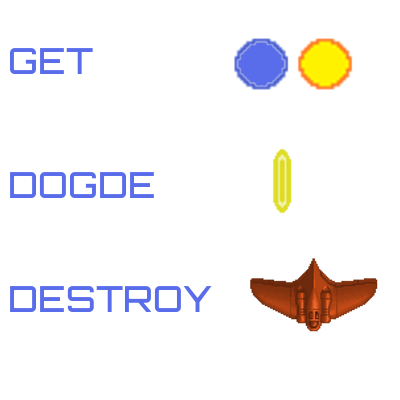
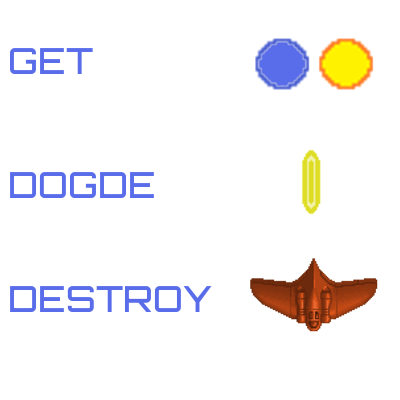
finalizada la primera version

Changed region(s): [[0.57, 0.09, 0.93, 0.24], [0.66, 0.36, 0.81, 0.54]]

diff --git a/js/game.js b/js/game.js
@@ -68,20 +68,22 @@ Game.prototype.start = function() {
 
 // Resetear juego
 Game.prototype.reset = function() {
-  this.gameOn = false;
-  var that = this;
-  clearInterval(this.interval);
-  this.clear();
-  this.background = new Background(this);
-  this.player = new Player(this);
-  this.enemies = [];
-  this.framesCounter = 0;
-  this.enemiesGenerated = 0;
+      var that = this;
+      clearInterval(this.interval);
+      this.clear();
+      this.background = new Background(this);
+      this.player = new Player(this);
+      this.enemies = [];
+      this.enemiesGenerated = 0;
+      this.framesCounter = 0;
+      this.items = [];
+      this.score = 0;  
 };
 
 // GAME OVER
 Game.prototype.gameOver = function() {
   this.clear();
+  this.gameOn = false;  
   var grd = this.ctx.createLinearGradient(0,0,this.canvas.width,this.canvas.height);
     grd.addColorStop(0,"#660066");
     grd.addColorStop(1,"#000000");
@@ -93,6 +95,7 @@ Game.prototype.gameOver = function() {
   this.ctx.fillText("YOU'RE DEAD", 30, 300);
   this.ctx.font = "bold 26px Orbitron";
   this.ctx.fillText("Please press RESTART", 30, 360);
+  this.ctx.fillText("YOUR SCORE: " + this.score, 30, 420);
   clearInterval(this.interval);
 };
 

diff --git a/css/styles.css b/css/styles.css
@@ -25,16 +25,12 @@ button {
   font-family: 'Orbitron', sans-serif;
   border-radius: 10px;
   background-color: darkmagenta;
-  margin: 50px 50px;
+  margin: 65px 50px;
   text-align: center;
   vertical-align: middle;
   color: #00ffff;
-  font-size: 28px;
+  font-size: 32px;
   font-weight: bold;
-}
-
-#restart-btn {
-  font-size: 24px;
 }
 
 img {

diff --git a/index.html b/index.html
@@ -30,8 +30,7 @@
   </div>
 
   <canvas id="canvas" width="400" height="800"></canvas>
-  <button id="start-btn">START GAME</button>
-  <button id="restart-btn">RESTART</button>
+  <button id="start-btn">PLAY</button>
   <img src="images/controls.png">
 </body>
 

diff --git a/js/index.js b/js/index.js
@@ -5,9 +5,4 @@ window.onload = function() {
     if (game.gameOn==true){return}
     else {game.start()};
   };
-
-  document.getElementById("restart-btn").onclick = function() {
-    game.reset();
-    game.start();
-  }
-};
+}

diff --git a/js/enemies.js b/js/enemies.js
@@ -97,7 +97,7 @@ function Enemy(game, enemyType) {
     this.x = 140;
     this.width = 120;
     this.height = 150;
-    this.health = 30;
+    this.health = 60;
     this.img.src = "images/boss_two.png";
   } 
   

diff --git a/js/projectiles.js b/js/projectiles.js
@@ -1,6 +1,6 @@
 function Projectile(game, bulletType, whoShoots, x, y) {
-  this.width = 10;
-  this.height = 20;
+  this.width = 12;
+  this.height = 24;
   this.game = game;
 
   this.img = new Image();
